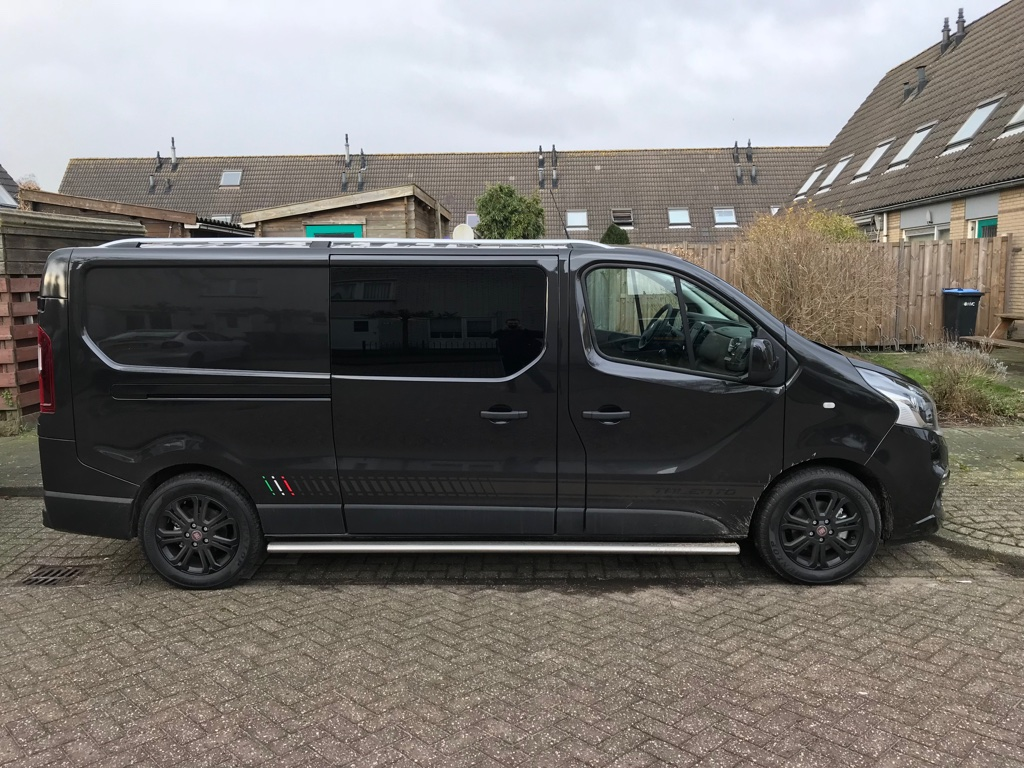
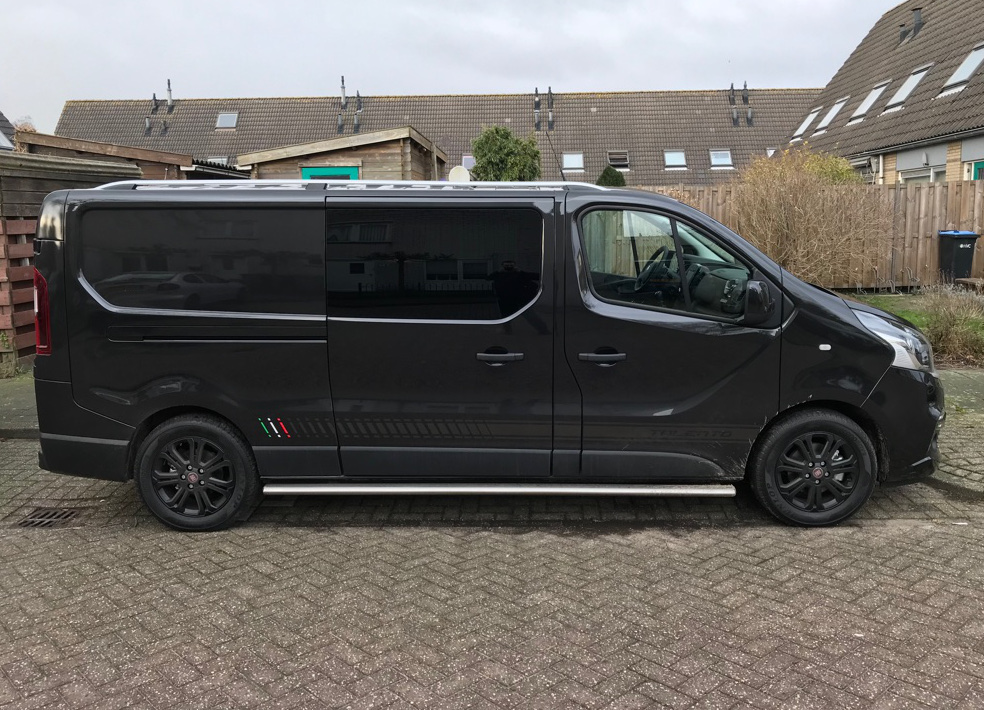
Shrink the image in the About section

diff --git a/index.html b/index.html
@@ -77,7 +77,7 @@
       <h2 class="text-center text-secondary">Over</h2>
       <hr class="eagle-dark mb-5">
       <div class="row">
-        <div class="col-lg-4 ml-auto">
+        <div class="about-img-container col-lg-4 ml-auto">
           <img class="img-fluid about-img black-border" src="img/arend.jpg" alt="">
         </div>
         <div class="col-lg-4 ml-auto">

diff --git a/scss/_about.scss b/scss/_about.scss
@@ -7,7 +7,11 @@
   margin-bottom: 30px;
 
   @media (min-width: 992px) {
-    width: 100%;
+    width: 80%;
     margin-bottom: 0px;
   }
+}
+
+.about-img-container {
+  margin: auto;
 }
